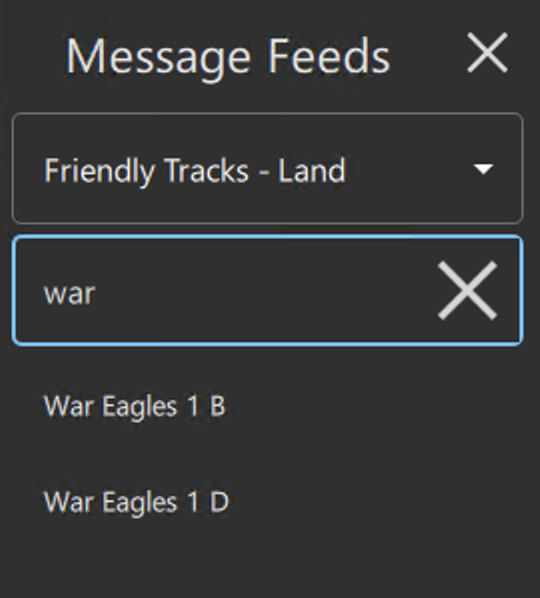
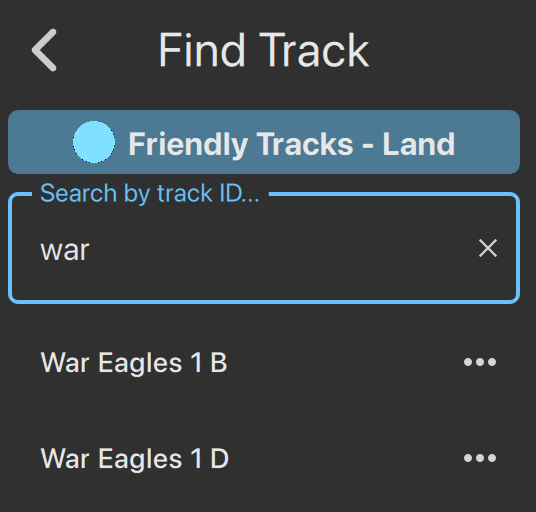
Doc updates for Settings and Feeds panels (#579)
* doc and images update

* Update docs/README.md

* Update docs/README.md

* Update docs/README.md

* Update docs/README.md

* Update docs/README.md

* adjust width

* Update README.md

* revert image

---------

diff --git a/docs/README.md b/docs/README.md
@@ -167,13 +167,13 @@ The Convert X/Y tool accepts a location in any supported coordinate notation or 
 
 ![](./images/dsa-icon-feeds-32.png)
 
-![](./images/dsa-tool-feeds.png "Feeds")<br>*Message feeds tool (DSA Vehicle)*
+<img src="./images/dsa-tool-feeds.png" alt="Feeds" width="300" /><br>*Message feeds tool (DSA Vehicle)*
 
 Feeds are streams of information broadcast over the network. When information is received over a feed, it is translated into something the app can use, like a map symbol in an overlay or an alert. The Feed tool controls which feeds are represented on your display. See more information in the section [Real-time feeds](#real-time-feeds).
 
-Track Display is available from the `Feeds` option in Map tools, and can also be accessed by long-pressing a feed. Use it to configure how observations and track lines are shown for each message feed. See [Track display](#track-display) for more details. 
+In `Message Feeds`, select a feed's ellipsis menu and choose `Track Display` to configure how observations and track lines are shown for that feed. See [Track display](#track-display) for more details.
 
-Find is also available from the `Feeds` option in Map tools to locate specific feeds in active message feeds. See [Find](#find) for more details.
+In `Message Feeds`, select a feed's ellipsis menu and choose `Find Track` to search that feed for tracks by track ID. See [Find Track](#find-track) for more details.
 
 ### Add data
 
@@ -268,27 +268,26 @@ DSA apps support several generic message feeds.
 
 <img src="./images/dsa-track-display.png" alt="Track Display" width="300" /><br>*Track Display tool*
 
-The `Track Display` tab under `Feeds` in Map tools provides feed-specific control of how dynamic observations and track lines are visualized.
+Open a feed's ellipsis menu in `Message Feeds` and select `Track Display` to control how dynamic observations and track lines are visualized for that feed.
 
 - Select a feed from `Message Feeds` (for example, `Friendly Tracks - Air` or `Friendly Tracks - Land`) and apply display settings independently per feed.
 - Enable `Observations` to show historical track observations for the selected feed.
-- Observation symbol size and color can be changed, and updates are reflected immediately on the map.
-- `Track Length Amount` controls how much recent track history is shown.
-- Enable `Track Line` to display a line representing track movement over time, with adjustable style options.
-- Set `Track Length Amount` to `All` to show the full available track history for the current session.
+- Select a feed from `Message Feeds` (for example, `Friendly Tracks - Air` or `Friendly Tracks - Land`) and apply display settings independently per feed.
+- Check `Show observations` to show historical track observations for the selected feed. Change the observation symbol size and color, and see updates reflected immediately on the map.
+- Check `Show track lines` to display a line representing track movement over time, and change the track line width and color. 
+- `Track Length` controls how much recent track history is shown. Tap `-` until it says `All` to show the full available track history for the current session.
 - Observation and track-line display can be shown at the same time for both `Friendly Tracks - Air` and `Friendly Tracks - Land`, while preserving independent settings per feed.
 
-#### Find
+#### Find Track
 
-<img src="./images/dsa-find-feeds.png" alt="Find" width="300" /><br>*Find tool*
+<img src="./images/dsa-find-feeds.png" alt="Find Track" width="300" /><br>*Find Track tool*
 
-The `Find` tab under `Feeds` in Map tools helps you quickly locate specific tracks from message feeds.
+Open a feed's ellipsis menu in `Message Feeds` and select `Find Track` to quickly locate tracks by track ID in that feed.
 
-- Select a message feed (for example, `Friendly Tracks - Land`) from the dropdown list.
-- Enter all or part of a message feed to search.
+- Enter all or part of a track ID to search.
 - Matching results are listed and highlighted on the map.
-- Selecting a result zooms the map to the latest observation for that track and opens the context menu at that location.
-- From there, you can use the available [Map context menu](#map-context-menu) options for follow-up actions.
+- Tapping a result zooms the map to the latest observation and pans the map to follow the track as it updates.
+- Each result provides actions for `Zoom to`, `Identify`, and `Line of sight`.
 
 ## Exploratory visual analysis
 

diff --git a/tests/SanityTest.md b/tests/SanityTest.md
@@ -405,7 +405,8 @@ The current location updates will be enabled in the DSA app at startup.
 
 Test case 1:
 
-- Go to Track Display from the bottom menu or by long-pressing on the `Friendly Tracks - Air` feed.
+- Select the ellipsis menu for `Friendly Tracks - Air` in `Message Feeds`, then select `Track Display`.
+- Confirm the selected feed is shown in the header and use the back action to return to `Message Feeds`.
 - In the Message Feeds dropdown, select `Friendly Tracks - Air`.
 - Enable the Observations checkbox.
   - [ ] Observations appear (a single track moving in a circle at a relative height above the terrain).
@@ -452,16 +453,21 @@ Test case 3:
 - Click on `Identify`
   - [ ] The timestamp in the popup is updating.
 
-**Test 3: Find specific track id**
+**Test 3: Find specific track ID**
 
-- Go to `Find` from the bottom menu.
+- Select the ellipsis menu for `Friendly Tracks - Land` in `Message Feeds`, then select `Find Track`.
 - Select `Friendly Tracks - Land` from the message feed type dropdown.
-- Search track by entering `war`.
-  - [ ] The results appear and those feeds are highlighted.
+- Search by track ID by entering `war`.
+  - [ ] The results appear and the matching tracks are highlighted on the map.
 - Select one result from the list
   - [ ] The map zoomed into the latest observation of the track.
   - [ ] Context menu appears for the latest observation of the track.
-- Test the [Context menu](#context-menu) options 
+- Open the result action menu and test each action:
+  - [ ] `Zoom to` zooms to the latest observation of the track.
+  - [ ] `Follow` starts following the selected track.
+  - [ ] `Identify` opens the dynamic entity popup.
+  - [ ] `Line of sight` creates a line-of-sight analysis from the current location to the selected track.
+- Use the back action to return to `Message Feeds`.
 
 # 5. Observation Reports
 Test case 1: Create Observation Report from Tool
